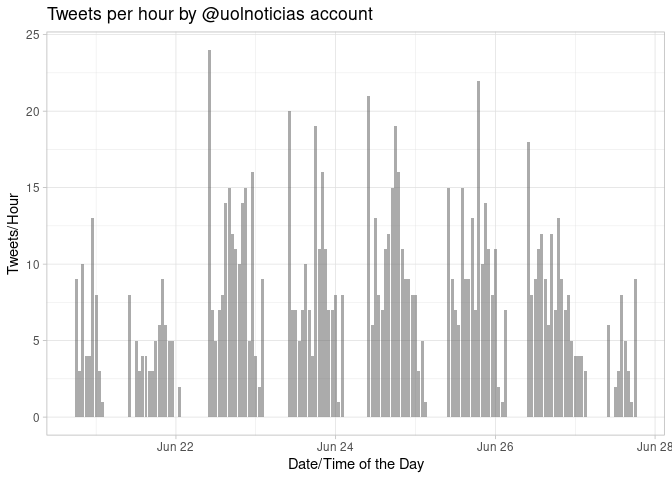
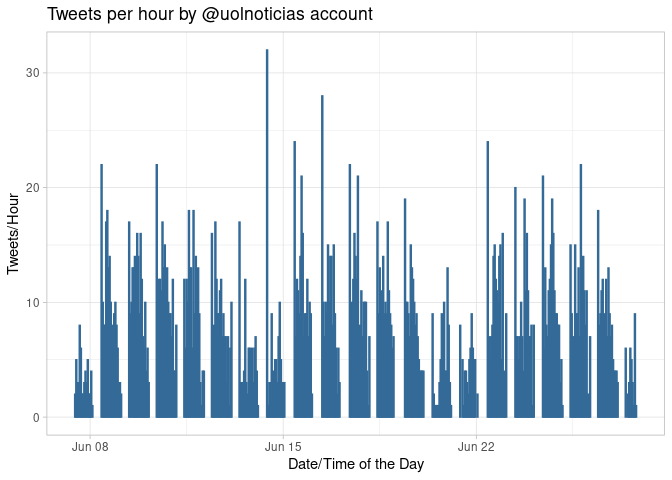
Added a new analysis of Twitter data.

diff --git a/01_twitter_data.md b/01_twitter_data.md
@@ -1,7 +1,9 @@
 Analysis of Twitter Data
 ================
-Danilo Scorzoni Re
-6/27/2020
+June 27th, 2020
+
+> In this analysis I present recommendations about posting frequency on
+> Twitter by a Brazilian publisher account (@uolnoticias).
 
 ## Twitter Data in R
 
@@ -30,24 +32,24 @@ twitter_token <- create_token(
 
 ### Extracting data from Twitter
 
-This exercise will be to extract the last 1000 tweets from a media
+This exercise will be to extract the last 3000 tweets from a media
 outlet from Brazil (@uolnoticias) and provide a ground report around
 some stats.
 
 ``` r
-uol <- get_timeline("uolnoticias", n = 1000)
+uol <- get_timeline("uolnoticias", n = 3000)
 head(uol)
 ```
 
     ## # A tibble: 6 x 90
     ##   user_id status_id created_at          screen_name text  source
     ##   <chr>   <chr>     <dttm>              <chr>       <chr> <chr> 
-    ## 1 145946… 12769518… 2020-06-27 18:53:32 UOLNoticias "Ele… Twitt…
-    ## 2 145946… 12769518… 2020-06-27 18:53:32 UOLNoticias "Pio… Twitt…
-    ## 3 145946… 12769518… 2020-06-27 18:53:31 UOLNoticias "Sue… Twitt…
-    ## 4 145946… 12769518… 2020-06-27 18:53:31 UOLNoticias "Fra… Twitt…
-    ## 5 145946… 12769518… 2020-06-27 18:53:31 UOLNoticias "O e… Twitt…
-    ## 6 145946… 12769518… 2020-06-27 18:53:30 UOLNoticias "Jul… Twitt…
+    ## 1 145946… 12769592… 2020-06-27 19:23:15 UOLNoticias "Sar… Zapie…
+    ## 2 145946… 12769580… 2020-06-27 19:18:10 UOLNoticias "Dep… Twitt…
+    ## 3 145946… 12769518… 2020-06-27 18:53:32 UOLNoticias "Ele… Twitt…
+    ## 4 145946… 12769518… 2020-06-27 18:53:32 UOLNoticias "Pio… Twitt…
+    ## 5 145946… 12769518… 2020-06-27 18:53:31 UOLNoticias "Sue… Twitt…
+    ## 6 145946… 12769518… 2020-06-27 18:53:31 UOLNoticias "Fra… Twitt…
     ## # … with 84 more variables: display_text_width <dbl>, reply_to_status_id <chr>,
     ## #   reply_to_user_id <chr>, reply_to_screen_name <chr>, is_quote <lgl>,
     ## #   is_retweet <lgl>, favorite_count <int>, retweet_count <int>,
@@ -130,31 +132,40 @@ names(uol)
     ## [87] "account_lang"            "profile_banner_url"     
     ## [89] "profile_background_url"  "profile_image_url"
 
+### Frequency of Tweets per Hour
+
 As you can see in the list of columns, there is a TON OF DATA coming
 from it. Let’s start with a simple tweets counts per hour, of the last
 1000 tweets.
 
 ``` r
+# Loading Libraries
 library(ggplot2) # Charts
 library(dplyr) # Data Processing
 library(tidyr) # Data Processing
 library(lubridate) # Date functions
 
+# Tweets per Hour
 uol %>%
-  mutate(created_at = as.POSIXct(created_at, format="%d-%H:00", tz = -3),
-         day_hour = make_datetime(
-           year = year(created_at),
-           month = month(created_at),
-           day = day(created_at),
-           hour = hour(created_at))) %>%
+  filter(is_retweet == F) %>%
+  mutate(
+    created_at = as.POSIXct(created_at, format="%d-%H:00", tz = -3),
+    day_hour = make_datetime(
+      year = year(created_at),
+      month = month(created_at),
+      day = day(created_at),
+      hour = hour(created_at)
+    )
+  ) %>%
   group_by(day_hour) %>%
   summarise(n = length(day_hour)) %>%
-  ggplot(aes(y = n, x = day_hour)) +
+  ggplot(aes(y = n, x = day_hour, col = 1, fill = 1)) +
   geom_bar(stat = "identity", alpha = 0.5) +
   theme_light() +
   xlab("Date/Time of the Day") +
   ylab("Tweets/Hour") +
-  ggtitle("Tweets per hour by @uolnoticias account")
+  ggtitle("Tweets per hour by @uolnoticias account") +
+  theme(legend.position = "none")
 ```
 
 ![](01_twitter_data_files/figure-gfm/unnamed-chunk-6-1.png)<!-- -->
@@ -168,7 +179,9 @@ There are some interesting insights here:
 Let’s take a look at some summary stats:
 
 ``` r
+# Summary of Tweets per Hour
 uol %>%
+  filter(is_retweet == F) %>%
   mutate(created_at = as.POSIXct(created_at, format="%d-%H:00", tz = -3),
          day_hour = make_datetime(
            year = year(created_at),
@@ -180,16 +193,18 @@ uol %>%
   summary()
 ```
 
-    ##     day_hour                         n         
-    ##  Min.   :2020-06-20 18:00:00   Min.   : 1.000  
-    ##  1st Qu.:2020-06-22 16:30:00   1st Qu.: 5.000  
-    ##  Median :2020-06-24 12:00:00   Median : 8.000  
-    ##  Mean   :2020-06-24 07:56:28   Mean   : 8.403  
-    ##  3rd Qu.:2020-06-25 23:30:00   3rd Qu.:11.000  
-    ##  Max.   :2020-06-27 18:00:00   Max.   :24.000
+    ##     day_hour                         n        
+    ##  Min.   :2020-06-07 11:00:00   Min.   : 1.00  
+    ##  1st Qu.:2020-06-12 03:00:00   1st Qu.: 5.00  
+    ##  Median :2020-06-17 13:00:00   Median : 8.00  
+    ##  Mean   :2020-06-17 11:55:21   Mean   : 8.57  
+    ##  3rd Qu.:2020-06-22 19:00:00   3rd Qu.:12.00  
+    ##  Max.   :2020-06-27 19:00:00   Max.   :32.00
 
 ``` r
+# Boxplot of Tweets per Hour
 uol %>%
+  filter(is_retweet == F) %>%
   mutate(created_at = as.POSIXct(created_at, format="%d-%H:00", tz = -3),
          day_hour = make_datetime(
            year = year(created_at),
@@ -198,22 +213,195 @@ uol %>%
            hour = hour(created_at))) %>%
   group_by(day_hour) %>%
   summarise(n = length(day_hour)) %>%
-  ggplot(aes(x = factor(hour(day_hour)), y = n)) +
-  geom_boxplot() +
+  ggplot(aes(x = factor(hour(day_hour)), y = n, fill = 1, col = 2)) +
+  geom_boxplot(alpha = 0.5) +
   theme_light() +
   xlab("Hour of the Day") +
   ylab("Tweets/Hour") +
-  ggtitle("Boxplot of tweets per hour across different days by @uolnoticias account")
+  ggtitle("Boxplot of tweets per hour across different days by @uolnoticias account") +
+  theme(legend.position = "none")
 ```
 
 ![](01_twitter_data_files/figure-gfm/unnamed-chunk-7-1.png)<!-- -->
 
-If this summary and boxplot chart, we can learn that:
+With this summary and boxplot chart, we can learn that:
 
   - @uolnoticias is posting around 8 tweets/hour.
   - They stop posting at 3AM and start again at 10AM, as people get more
     active and get back to consume their tweets on Tweeter.
   - At 10AM, they have a big number of tweets published. It looks like
     they are all blocked during the night to be posted at 10AM.
-  - The number of tweets per hour tend to increase around 18PM and tend
-    to decrease at 22PM.
+  - The number of tweets per hour tend to increase, with peak at 5PM and
+    tend to decrease at 8PM.
+
+### Engagement and Posting Frequency
+
+Does engagement data drive the posting frequency throughout the day?
+Let’s take a look at number of favorites/likes on tweets and how this
+changes throughout the day.
+
+``` r
+uol %>%
+  filter(is_retweet == F) %>%
+  mutate(created_at = as.POSIXct(created_at, format="%d-%H:00", tz = -3),
+         hour = hour(created_at),
+         day_hour = make_datetime(
+           year = year(created_at),
+           month = month(created_at),
+           day = day(created_at),
+           hour = hour(created_at))) %>%
+  group_by(day_hour) %>%
+  summarise(
+    tweets_per_hour = length(hour),
+    favorite_per_tweet = mean(favorite_count)
+  ) %>%
+  mutate(hour = hour(day_hour)) %>%
+  group_by(hour) %>%
+  summarise(
+    median_tweets_per_hour = quantile(tweets_per_hour, 0.5),
+    median_favorite_per_tweet = quantile(favorite_per_tweet, 0.5)
+  ) %>%
+  gather(key = "key", value = "value", -hour) %>%
+  ggplot(aes(x = hour, y = value, col = key, fill = key)) +
+  geom_bar(stat = "identity", alpha = 0.5) +
+  facet_wrap(~ key, nrow = 2, scales = "free") +
+  theme_light() +
+  xlab("Hour of the Day") +
+  ylab("") +
+  ggtitle("Tweets per hour and median favorites/tweet throughout the day. ") +
+  theme(legend.position="none")
+```
+
+![](01_twitter_data_files/figure-gfm/unnamed-chunk-8-1.png)<!-- -->
+
+Insights from the chart above:
+
+  - We see that the engagement (favorites) is stronger during the night
+    (8PM-3AM) then during the daytime or early evening.
+  - Posting activity works in the opposite way, with less tweets/hour in
+    the late night, with increasing activity throughout the day until
+    8PM.
+
+Question to be investigated:
+
+> With flat engagement while we see an increasing number of tweets, is
+> this happening because the higher volume of tweets can be competing
+> with each other?
+
+``` r
+uol %>%
+  filter(is_retweet == F) %>%
+  mutate(
+    created_at = as.POSIXct(created_at, format="%d-%H:00", tz = -3),
+    day_hour = make_datetime(
+      year = year(created_at),
+      month = month(created_at),
+      day = day(created_at),
+      hour = hour(created_at)
+    )
+  ) %>%
+  group_by(day_hour) %>%
+  summarise(
+    tweets_per_hour = length(day_hour),
+    favorite_per_tweet = quantile(favorite_count, 0.5)
+  ) %>%
+  ggplot(aes(y = favorite_per_tweet, x = tweets_per_hour)) +
+  geom_point(alpha = 0.3) +
+  geom_smooth() +
+  theme_light() +
+  xlab("Tweets per Hour") +
+  ylab("Favorites/Likes per Tweet") +
+  ggtitle("The diminishing returns of posting too frequently.") +
+  theme(legend.position="none")
+```
+
+![](01_twitter_data_files/figure-gfm/unnamed-chunk-9-1.png)<!-- -->
+
+Data shows that:
+
+  - As you increase frequency of tweets, the less engagement you get per
+    tweet.
+  - For optimization, posting at max 6 tweets/hour is good enough to
+    extract the higher benefit/tweet.
+  - Posting more do contribute with more overall engagement, but the
+    return are limited.
+
+### Interval between tweets
+
+Let’s suppose that posting 6 times/hour would give you one tweet at
+every 10 minutes. However, we need some evidence to understand if
+posting at fixed time intervals are better than posting as the news
+happens (no pre-defined schedule).
+
+``` r
+uol %>%
+  filter(is_retweet == F) %>% # Removing retweets because they don't accrue favorites.
+  select(favorite_count, created_at) %>%
+  mutate(previous_at = lead(x = created_at, n = 1, order_by = created_at),
+         lag_min = as.numeric(previous_at - created_at)/60,
+         lag_interval = cut(lag_min, c(0,0.5,1,3,5,10,15,30,60,9999999))) %>%
+  filter(!is.na(lag_interval)) %>%
+  count(lag_interval) %>%
+  ggplot(aes(x = lag_interval, y = n/sum(n)*100, fill = 1, col = 1, 
+             label = paste0(round(n/sum(n)*100),"%"))) +
+  geom_bar(stat = "identity", alpha = 0.5) +
+  geom_label(alpha = 0.7, col = "white", size = 3.5) +
+  theme_light() +
+  xlab("Interval between tweets posted (in minutes)") +
+  ylab("Frequency of Tweets") +
+  ggtitle("UOLNoticias is posting more tweets in short intervals") +
+  theme(legend.position="none")
+```
+
+![](01_twitter_data_files/figure-gfm/unnamed-chunk-10-1.png)<!-- -->
+
+As you can see in the chart above, UOLNoticias has a lot of tweets (22%)
+being posted in less than 30 seconds. Let’s see how this can impact
+engagement:
+
+``` r
+uol %>%
+  filter(is_retweet == F) %>% # Removing retweets because they don't accrue favorites.
+  select(favorite_count, created_at) %>%
+  mutate(previous_at = lead(x = created_at, n = 1, order_by = created_at),
+         lag_min = as.numeric(previous_at - created_at)/60,
+         lag_interval = cut(lag_min, c(0,0.5,1,3,5,10,15,30,60,9999999))) %>%
+  filter(!is.na(lag_interval) &
+           favorite_count < quantile(favorite_count, 0.95)) %>%
+  filter(lag_min < quantile(lag_min, 0.95)) %>%
+  ggplot(aes(x = round(lag_min), y = favorite_count)) +
+  geom_point(alpha = 0.3) +
+  geom_smooth() +
+  theme_light() +
+  xlab("Lag between tweets (minutes)") +
+  ylab("Favorites/Likes per Tweet") +
+  ggtitle("Weak positive correlation (r = 0.13) between favorites/likes and \n interval between tweets") +
+  theme(legend.position="none")
+```
+
+![](01_twitter_data_files/figure-gfm/unnamed-chunk-11-1.png)<!-- -->
+
+The data doesn’t support a strong effect of interval between tweets.
+Further investigation would be necessary through a causal analysis or
+A/B tests.
+
+### Summary and Recommendations
+
+1.  This account is not posting with high frequency during night and
+    data shows that this is the time of the day where tweets gets more
+    engagement. Although this is a correlation, the editorial team have
+    some opportunities to try optimization os posting in this moment.
+    This is specially true for the tweets that are blocked to be posted
+    until 10AM in the following day.
+
+2.  The number of tweets/hour showed some interesting correlation, with
+    an optimal value as 6 tweets/hour. After this frequency, you have
+    diminishing returns. Currently, the account is posting on average 8
+    tweets/hour. It’s interesting to assess business reasons for posting
+    more than 6 tweets/hour and experiment with less tweets per hour.
+
+3.  It’s not possible to be affirmative about the interval between
+    tweets, so it’s recommended to experiment with A/B tests or causal
+    analysis (using regression analysis on all possible controlled
+    effects) to better understand if there is a real effect on
+    engagement.

diff --git a/README.md b/README.md
@@ -1,3 +1,5 @@
 # dscorzoni's Repository of R Data Analysis
 
 This file is an index for this folder. It contains links to all R scripts of sample data analysis and machine learning models on Kaggle's datasets.
+
+1. [01_twitter_data.md](01_twitter_data.md) Analysis of Twitter Data - Posting frequency recommendation for a Brazilian Publisher.
